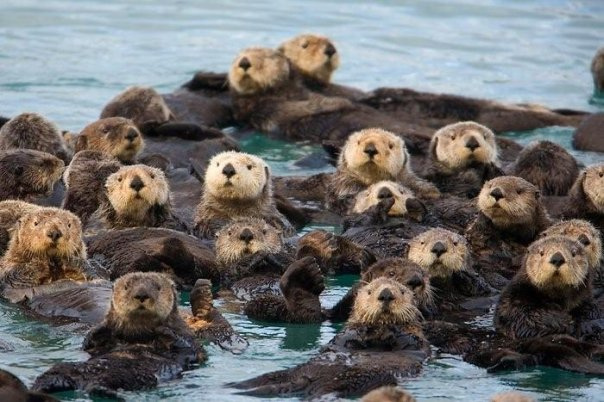
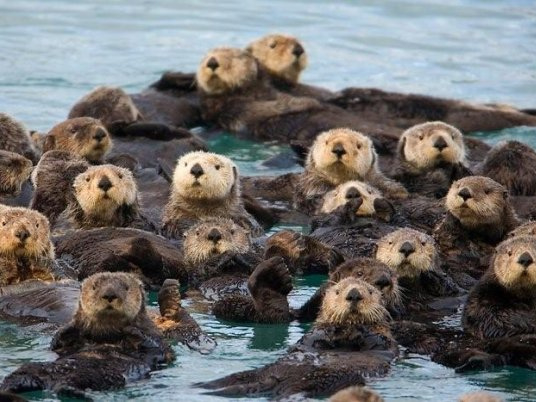
image gallery bootstrap 4 with 4:3 images

diff --git a/image gallery/image-gallery-bootstrap-4.html b/image gallery/image-gallery-bootstrap-4.html
@@ -1,0 +1,100 @@
+<!DOCTYPE html>
+<html lang="en">
+
+<head>
+    <meta charset="UTF-8">
+    <title>Image Gallery</title>
+    <script src="https://code.jquery.com/jquery-3.2.1.slim.min.js" integrity="sha384-KJ3o2DKtIkvYIK3UENzmM7KCkRr/rE9/Qpg6aAZGJwFDMVNA/GpGFF93hXpG5KkN" crossorigin="anonymous"></script>
+    <script src="https://cdnjs.cloudflare.com/ajax/libs/popper.js/1.12.3/umd/popper.min.js" integrity="sha384-vFJXuSJphROIrBnz7yo7oB41mKfc8JzQZiCq4NCceLEaO4IHwicKwpJf9c9IpFgh" crossorigin="anonymous"></script>
+    <script src="https://maxcdn.bootstrapcdn.com/bootstrap/4.0.0-beta.2/js/bootstrap.min.js" integrity="sha384-alpBpkh1PFOepccYVYDB4do5UnbKysX5WZXm3XxPqe5iKTfUKjNkCk9SaVuEZflJ" crossorigin="anonymous"></script>
+    <link rel="stylesheet" href="https://maxcdn.bootstrapcdn.com/bootstrap/4.0.0-beta.2/css/bootstrap.min.css" integrity="sha384-PsH8R72JQ3SOdhVi3uxftmaW6Vc51MKb0q5P2rRUpPvrszuE4W1povHYgTpBfshb" crossorigin="anonymous">
+</head>
+
+<body>
+
+    <nav class="navbar navbar-expand-lg navbar-light bg-light">
+        <a class="navbar-brand" href="#">Otters</a>
+        <button class="navbar-toggler" type="button" data-toggle="collapse" data-target="#navbarSupportedContent" aria-controls="navbarSupportedContent" aria-expanded="false" aria-label="Toggle navigation">
+            <span class="navbar-toggler-icon"></span>
+        </button>
+
+        <div class="collapse navbar-collapse" id="navbarSupportedContent">
+            <ul class="navbar-nav mr-auto">
+                <li class="nav-item active">
+                    <a class="nav-link" href="#">Home <span class="sr-only">(current)</span></a>
+                </li>
+                <li class="nav-item">
+                    <a class="nav-link" href="#">Link</a>
+                </li>
+                <li class="nav-item dropdown">
+                    <a class="nav-link dropdown-toggle" href="#" id="navbarDropdown" role="button" data-toggle="dropdown" aria-haspopup="true" aria-expanded="false">
+          Dropdown
+        </a>
+                    <div class="dropdown-menu" aria-labelledby="navbarDropdown">
+                        <a class="dropdown-item" href="#">Action</a>
+                        <a class="dropdown-item" href="#">Another action</a>
+                        <div class="dropdown-divider"></div>
+                        <a class="dropdown-item" href="#">Something else here</a>
+                    </div>
+                </li>
+                <li class="nav-item">
+                    <a class="nav-link disabled" href="#">Disabled</a>
+                </li>
+            </ul>
+            <form class="form-inline my-2 my-lg-0">
+                <input class="form-control mr-sm-2" type="search" placeholder="Search" aria-label="Search">
+                <button class="btn btn-outline-success my-2 my-sm-0" type="submit">Search</button>
+            </form>
+        </div>
+    </nav>
+    <div class="container">
+
+
+        <div class="jumbotron">
+            <h1>The Otter Gallery</h1>
+            <p>Clever, carefree, afloat.</p>
+        </div>
+        <div class="row">
+            <div class="col-md-4">
+                <div class="img-thumbnail"><img src="images/pup3554722230_fa85d1a4b6_z.jpg" alt="" class="img-fluid" alt="Responsive image"></div>
+            </div>
+            <div class="col-md-4">
+                <div class="img-thumbnail"><img src="images/19631888633_42de684a14_z.jpg" alt="" class="img-fluid" alt="Responsive image"></div>
+            </div>
+            <div class="col-md-4">
+                <div class="img-thumbnail"><img src="images/14786705714_8c13d1079b_z.jpg" alt="" class="img-fluid" alt="Responsive image"></div>
+            </div>
+        </div>
+        <div class="row">
+            <div class="col-md-4">
+                <div class="img-thumbnail"><img src="images/3018533216_be4ed5aa39_z.jpg" alt="" class="img-fluid" alt="Responsive image"></div>
+            </div>
+            <div class="col-md-4">
+                <div class="img-thumbnail"><img src="images/3666294797_81349ef2a1_z.jpg" alt="" class="img-fluid" alt="Responsive image"></div>
+            </div>
+
+            <div class="col-md-4">
+                <div class="img-thumbnail"><img src="images/3908631934_a6306de58a_z.jpg" alt="" class="img-fluid" alt="Responsive image"></div>
+            </div>
+
+        </div>
+
+        <div class="row">
+            <div class="col-md-4">
+                <div class="img-thumbnail"><img src="images/7024160733_ea88e4a214_z.jpg" alt="" class="img-fluid" alt="Responsive image"></div>
+            </div>
+            <div class="col-md-4">
+                <div class="img-thumbnail"><img src="images/8566233604_ea8703e160_z.jpg" alt="" class="img-fluid" alt="Responsive image"></div>
+            </div>
+                  <div class="col-md-4">
+                <div class="img-thumbnail"><img src="images/4689625288_138b28b4b6_z.jpg" alt="" class="img-fluid" alt="Responsive image"></div>
+            </div>
+        </div>
+
+
+
+    </div>
+
+</body>
+
+</html>
